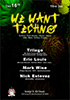
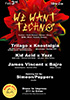
updated links images and copy for feb 3 event

diff --git a/index.html b/index.html
@@ -97,7 +97,7 @@
                 <div class="image-title">
                     <p>Music - Art - Culture - Lifestyle</p>
                     <p> See Upcoming Events Below</p>
-                    <a href="https://posh.vip/e/we-want-techno-eric-louis-mark-wise-nick-estevez-trilago?t=website"
+                    <a href="https://posh.vip/f/2ddf?t=website"
                         class="button-basic-1" >All
                         Events</a>
                 </div>
@@ -116,7 +116,7 @@
                             <div class="item-content">
                                 <div class="img-header">
                                     <a class="pattern"
-                                        href="https://posh.vip/e/we-want-techno-eric-louis-mark-wise-nick-estevez-trilago?t=website">
+                                        href="https://posh.vip/f/2ddf?t=website">
                                         <img src="img/Dec16_full.jpg" alt="event-img">
                                     </a>
                                 </div>
@@ -124,8 +124,8 @@
                         </div>
                         <div class="global-counter col-span-7 sm:col-span-12 res:col-span-12">
                             <div class="global-title">
-                                <h2 >We Want Techno: Eric Louis, Mark Wise, Nick Estevez, Trilago</h2>
-                                <h5 >/ 16 DECEMBER 2022</h5>
+                                <h2 >We Want Techno: Back to Back at Barça City Cafe & Bar</h2>
+                                <h5 >/ 3 February 2023</h5>
                                 <p class="dugem-text" >We Want Techno is excited to bring quality
                                     Techno / Tech House / House / Disco music to New Brunswick, NJ. We have created a unique
                                     atmospheric experience combining art, music and culture making our show photo worthy
@@ -133,10 +133,10 @@
                                     for dance music with us! </p>
                             </div>
                             <div class="global-buy" >
-                                <a href="https://posh.vip/e/we-want-techno-eric-louis-mark-wise-nick-estevez-trilago?t=website"
+                                <a href="https://posh.vip/f/2ddf?t=website"
                                     class="button-basic-1">View
                                     Event</a>
-                                <a href="https://posh.vip/e/we-want-techno-eric-louis-mark-wise-nick-estevez-trilago?t=website"
+                                <a href="https://posh.vip/f/2ddf?t=website"
                                     class="button-basic-2">Get
                                     Ticket</a>
                             </div>
@@ -194,23 +194,22 @@
                             </td>
                         </tr>
                         <tr>
-                            <td class="event-date">12/16/22</td>
+                            <td class="event-date">2/3/23</td>
                             <td class="event-thumb">
                                 <a
-                                    href="https://posh.vip/e/we-want-techno-eric-louis-mark-wise-nick-estevez-trilago?t=website">
+                                    href="https://posh.vip/f/2ddf?t=website">
                                     <img width="70" height="100" src="img/Dec16th_thumb.jpg" alt="table-1">
                                 </a>
                             </td>
-                            <td class="event-artist">Eric Louis, Mark Wise...</td>
+                            <td class="event-artist">Back to Back...</td>
                             <td class="event-title">
                                 <a
-                                    href="https://posh.vip/e/we-want-techno-eric-louis-mark-wise-nick-estevez-trilago?t=website">George
-                                    Street Ale House</a>
+                                    href="https://posh.vip/f/2ddf?t=website">Barça City</a>
                             </td>
                             <td class="event-ticket-link">
-                                <a href="https://posh.vip/e/we-want-techno-eric-louis-mark-wise-nick-estevez-trilago?t=website"
+                                <a href="https://posh.vip/f/2ddf?t=website"
                                     class="button button-white rsvp">INFO</a>
-                                <a href="https://posh.vip/e/we-want-techno-eric-louis-mark-wise-nick-estevez-trilago?t=website"
+                                <a href="https://posh.vip/f/2ddf?t=website"
                                     class="button button-white">BUY
                                     TICKET</a>
                             </td>
@@ -224,15 +223,14 @@
                             <td class="event-date">N/A</td>
                             <td class="event-thumb">
                                 <a
-                                    href="https://posh.vip/e/we-want-techno-eric-louis-mark-wise-nick-estevez-trilago?t=website">
+                                    href="https://posh.vip/f/2ddf?t=website">
                                     <img width="70" height="100" src="img/WWT-Blur-Thumb.png" alt="table-2">
                                 </a>
                             </td>
-                            <td class="event-artist">Trilago &amp; Guest</td>
+                            <td class="event-artist">TBA</td>
                             <td class="event-title">
                                 <a
-                                    href="https://posh.vip/e/we-want-techno-eric-louis-mark-wise-nick-estevez-trilago?t=website">George
-                                    Street Ale House</a>
+                                    href="https://posh.vip/f/2ddf?t=website">TBA</a>
                             </td>
                             <td class="event-ticket-link">
                                 <span class="sold">NOT AVAILABLE</span>
@@ -250,15 +248,15 @@
                             <li>
                                 <span class="img-thumb">
                                     <a
-                                        href="https://posh.vip/e/we-want-techno-eric-louis-mark-wise-nick-estevez-trilago?t=website">
+                                        href="https://posh.vip/f/2ddf?t=website">
                                         <img width="70" height="100" src="img/Dec16th_thumb.jpg" alt="table-1-1">
                                     </a>
                                 </span>
-                                <p><span>Date :</span> <a href="#">12/16/22</a></p>
-                                <p><span>Artist :</span> <a href="#">Eric Louis, Mark Wise, Nick Estevez, Trilago</a></p>
-                                <p><span>Venue :</span> <a href="#">George Street Ale House</a></p>
+                                <p><span>Date :</span> <a href="#">2/3/23</a></p>
+                                <p><span>Artist :</span> <a href="#">Back to Back at Barça City Cafe & Bar</a></p>
+                                <p><span>Venue :</span> <a href="#">Barça City Cafe & Bar</a></p>
                                 <p>
-                                    <a href="https://posh.vip/e/we-want-techno-eric-louis-mark-wise-nick-estevez-trilago?t=website"
+                                    <a href="https://posh.vip/f/2ddf?t=website"
                                         class="button-basic-1">BUY
                                         TICKET</a>
                                 </p>
@@ -266,19 +264,19 @@
                             <li>
                                 <span class="img-thumb">
                                     <a
-                                        href="https://posh.vip/e/we-want-techno-eric-louis-mark-wise-nick-estevez-trilago?t=website">
+                                        href="https://posh.vip/f/2ddf?t=website">
                                         <img width="70" height="100" src="img/WWT-Blur-Thumb.png" alt="table-1-5">
                                     </a>
                                 </span>
                                 <p><span>Date :</span> <a href="#">N/A</a></p>
                                 <p><span>Artist :</span> <a href="#">Trilago &amp; Special Guest</a></p>
-                                <p><span>Venue :</span> <a href="#">George Street Ale House</a></p>
+                                <p><span>Venue :</span> <a href="#">Barça City Cafe & Bar</a></p>
                                 <span class="sold">Tickets Not Available</span> </p>
                             </li>
                         </ul>
                     </div>
                     <div class="button-view text-center">
-                        <a href="https://posh.vip/e/we-want-techno-eric-louis-mark-wise-nick-estevez-trilago?t=website"
+                        <a href="https://posh.vip/f/2ddf?t=website"
                             class="button-basic-1" >VIEW ALL EVENTS</a>
                     </div>
                 </div>

diff --git a/js/countdown-dugem.js b/js/countdown-dugem.js
@@ -7,7 +7,7 @@
          hour = minute * 60,
          day = hour * 24;
 
-         let birthday = "Dec 16, 2022 00:10:00",
+         let birthday = "Feb 3, 2023 00:10:00",
          countDown = new Date(birthday).getTime(),
          x = setInterval(function() {
 
